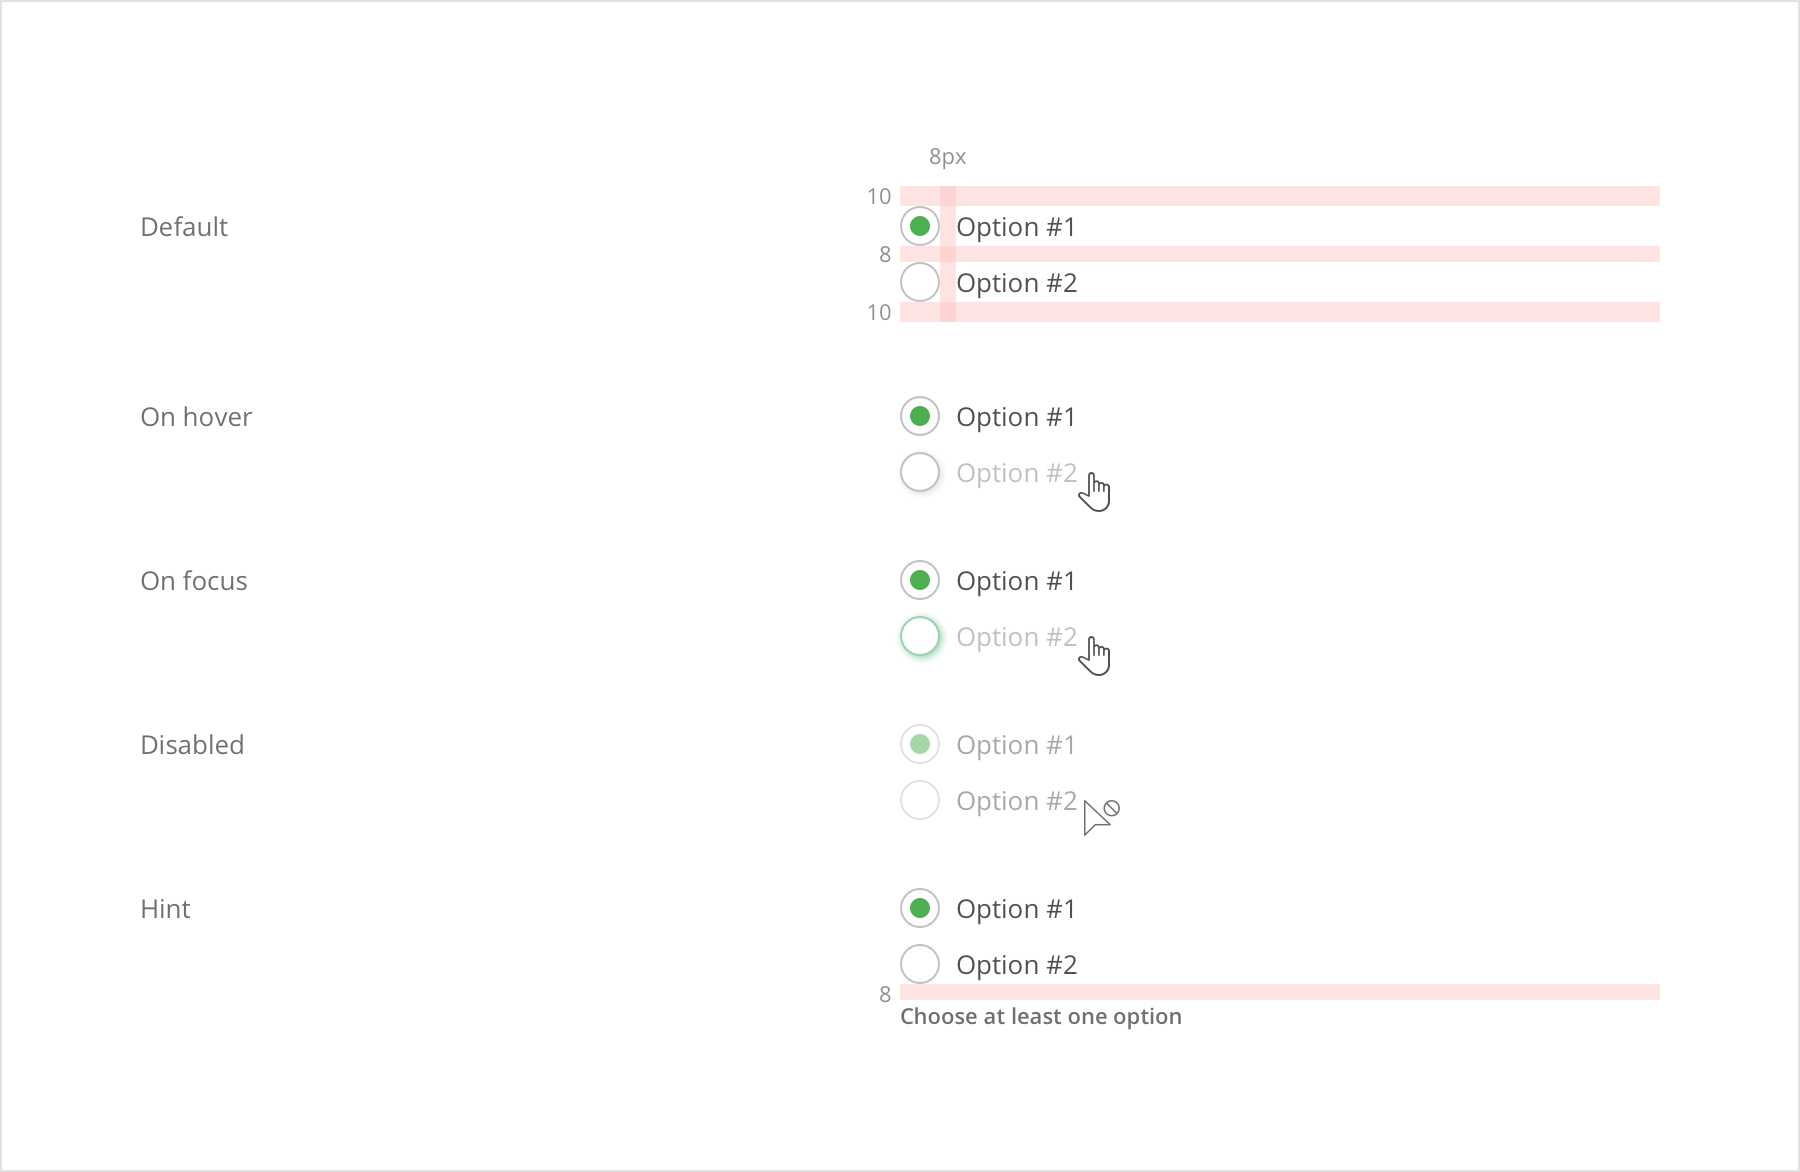
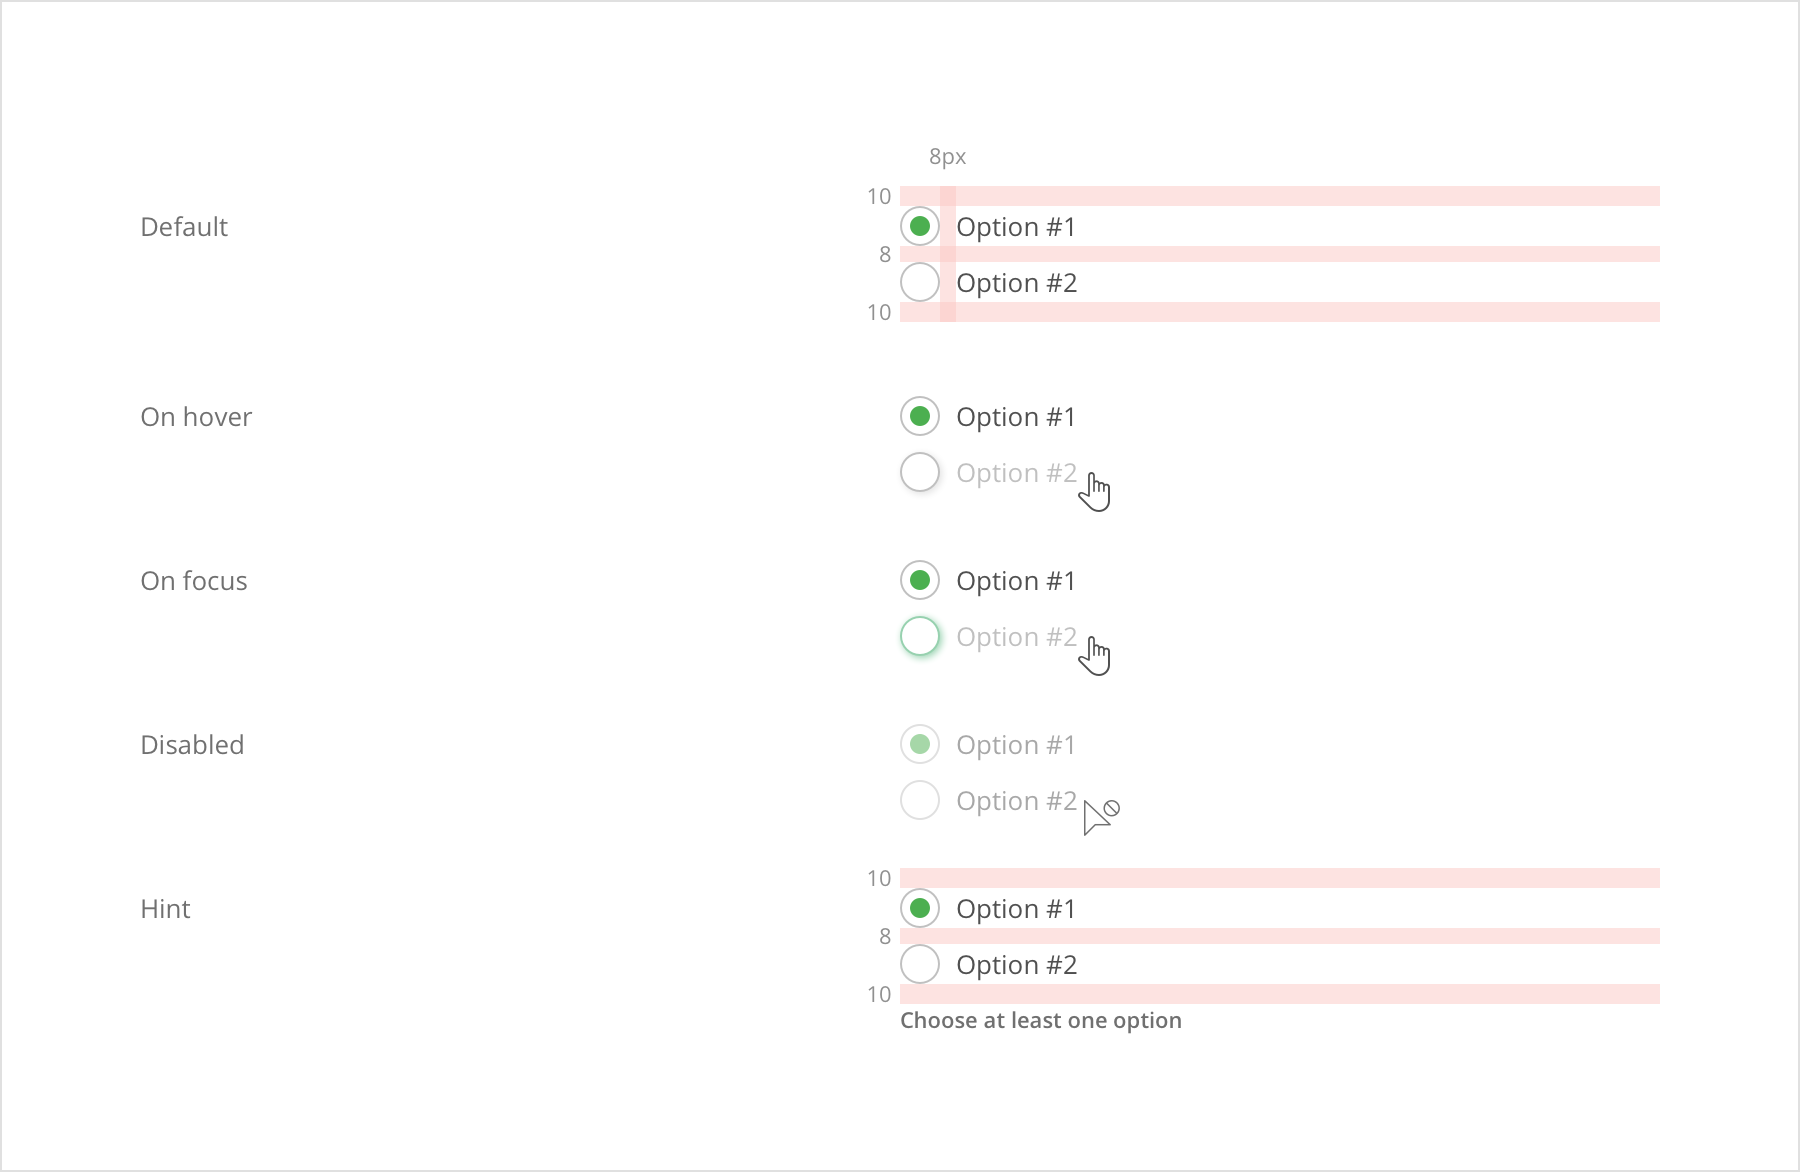
Updates atoms/radio-buttons.md
Auto commit by GitBook Editor

Changed region(s): [[0.4978, 0.7372, 0.9333, 0.8908]]

diff --git a/atoms/checkboxes.md b/atoms/checkboxes.md
@@ -13,7 +13,10 @@ There are two types of checkboxes: **Single-select** \(without a label\) in case
 
 ### Single-select
 
-Single-select checkboxes are standalone and they are used as an enable/disable action in forms but require a submit button press in order for action to take the effect.
+Single-select checkboxes are standalone and they are used as an enable/disable action in [Forms](/organisms/forms.md) but require a submit button press in order for action to take the effect.
+
+* The width and height size of Single-select checkmarks is 24px.
+* Since the height size of a single row in forms is 40px, there is a top and bottom margin of 8px to fill the gap.
 
 ![](/assets/atoms/checkboxes-single-select-states.png)
 
@@ -42,6 +45,9 @@ opacity: 50%;
 ### Multi-select
 
 Multi-select checkboxes are used when there are multiple choices, and more than one option can be selected. Like Single-select checkboxes, these ones require a submit button press as well.
+
+* The margin between radio buttons is 8px.
+* The last checkmark in a group \(24px\) has a padding top of 8px.
 
 ![](/assets/atoms/checkboxes-multi-select-states.png)
 

diff --git a/atoms/radio-buttons.md b/atoms/radio-buttons.md
@@ -13,10 +13,11 @@ Radio buttons are mostly used when there are multiple choices, but only one opti
 
 #### Spacing guidelines
 
-* The width and height of the radio buttons are always 20px.
+* The width size of the radio buttons is 20px.
+* The height size of the radio buttons is 20px.
 * The margin between radio buttons is 8px.
-* The first radio button in a group has a padding top of 10px.
-* The last radio button in a group has a padding top of 10px.
+* The first radio button in a group has a margin top of 10px.
+* The last radio button in a group has a margin bottom of 10px.
 
 ![](/assets/atoms/radio-buttons-states.png)
 
@@ -58,7 +59,6 @@ color: $S500;
 opacity: 50%;
 
 /* Hint message */
-margin-top: 8px;
 font-family: Open Sans;
 font-weight: Semibold;
 font-size: 11px;
